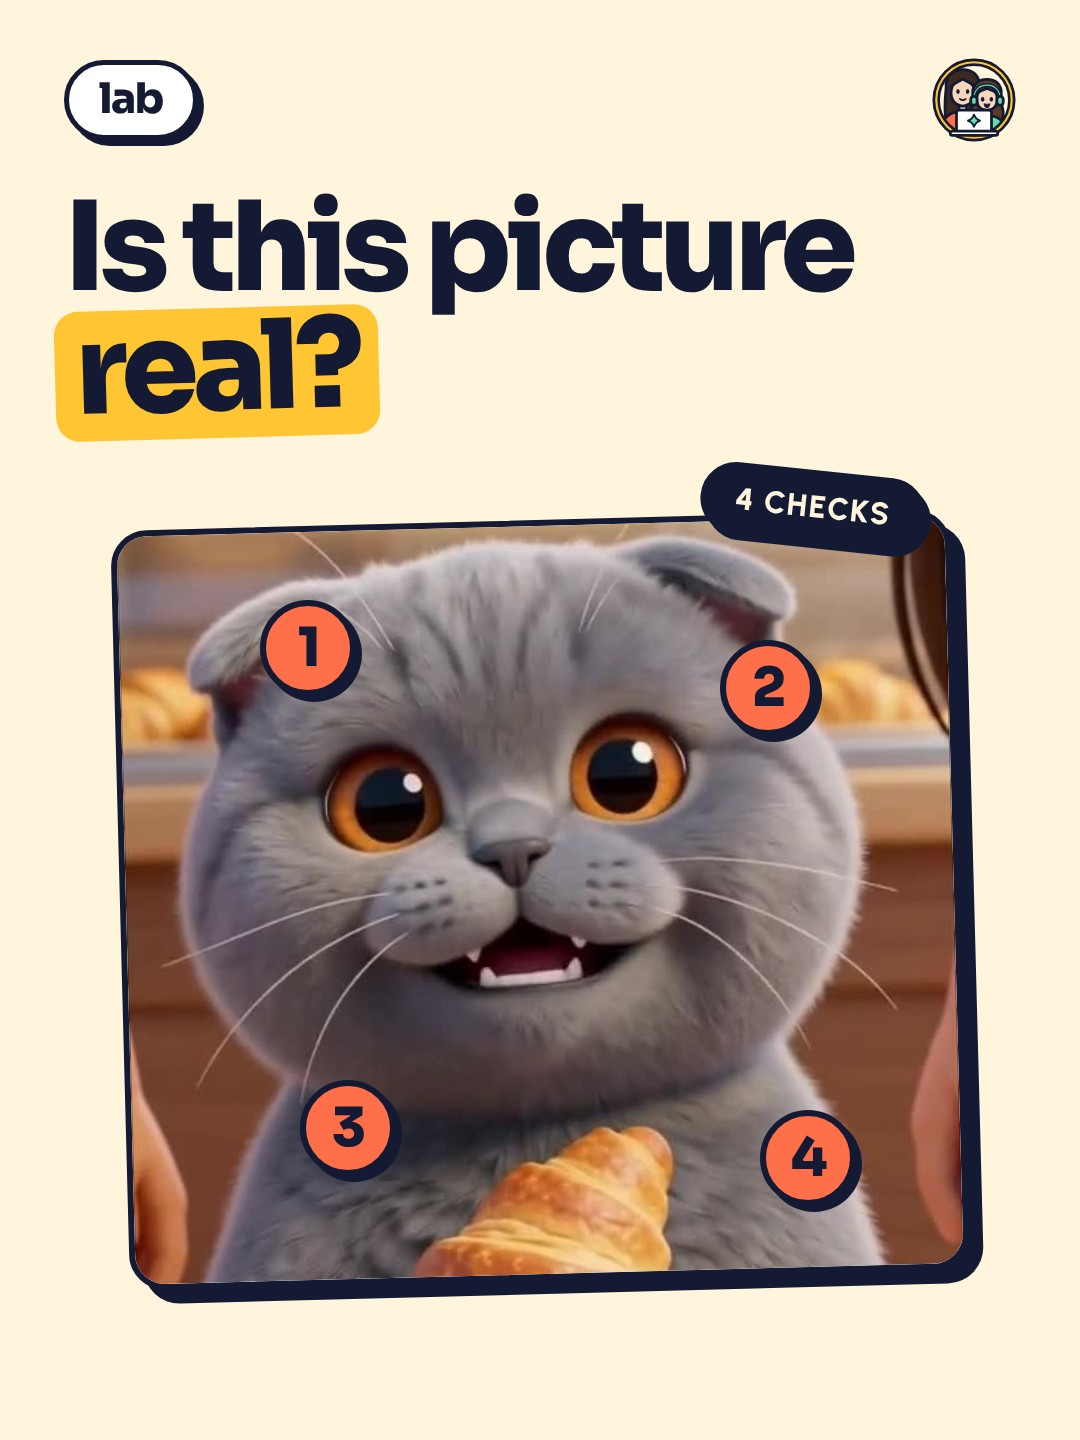
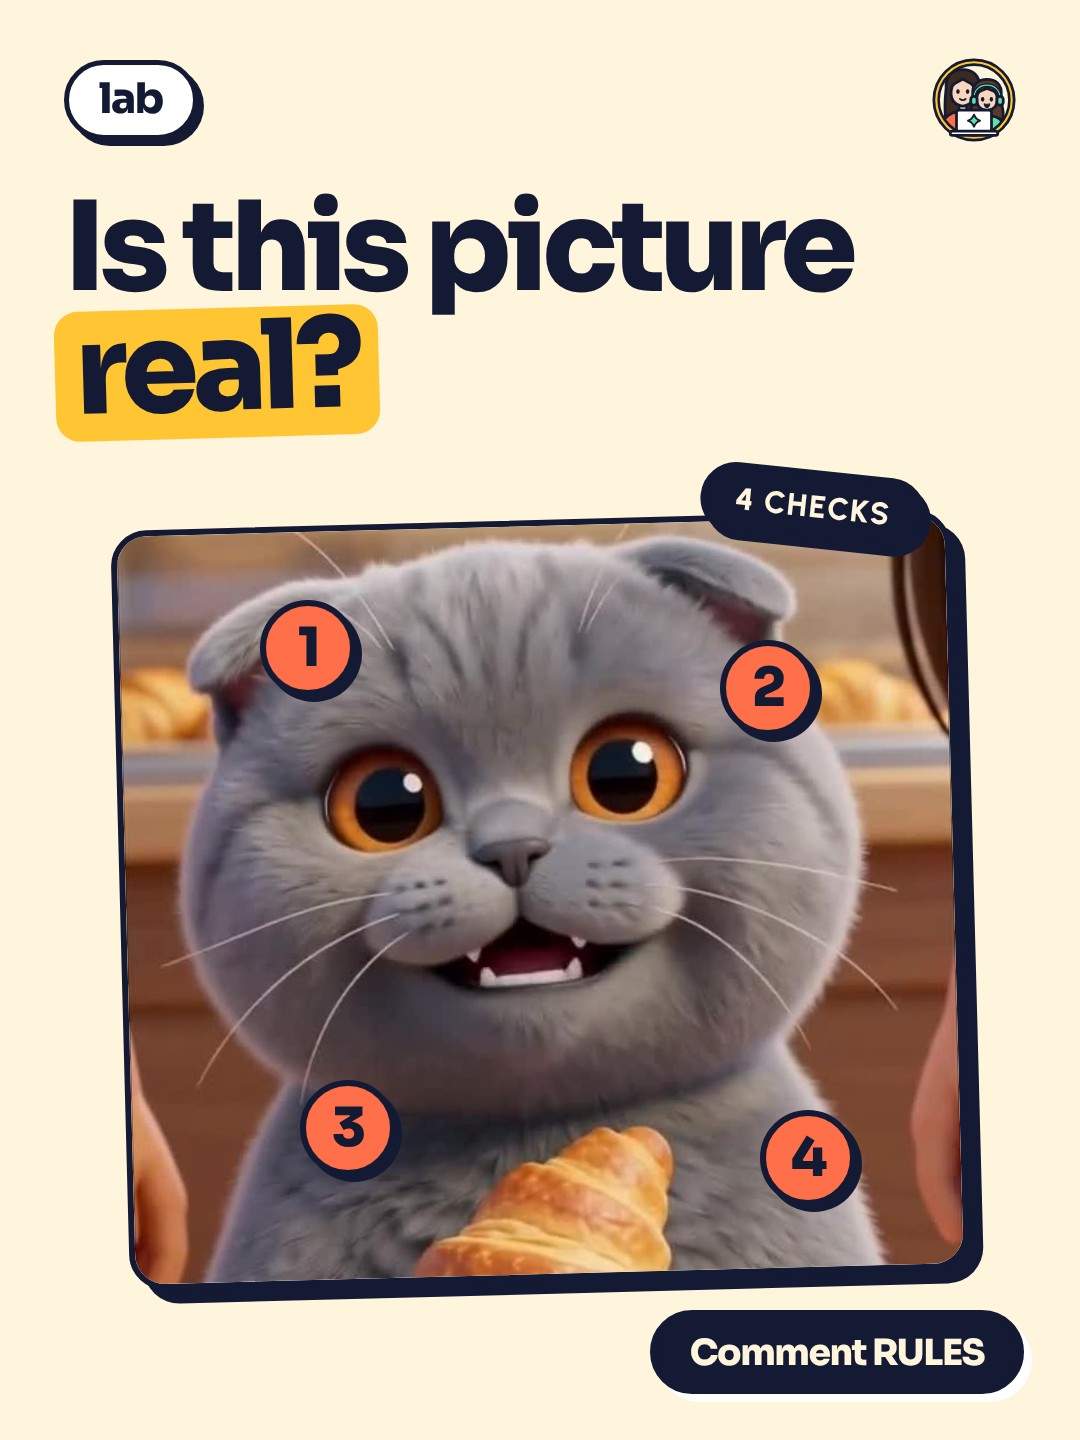
Instagram desk: trial reels 11 and 18 scheduled, post 15 on the cartoon, cartoon-frame series 32-36, comment word on every post
Claude-Session: https://claude.ai/code/session_01DtGyjSqHdVpz2CXmqnfjKT

Changed region(s): [[0.5806, 0.9062, 0.9778, 1.0]]

diff --git a/social/desks/instagram.md b/social/desks/instagram.md
@@ -73,3 +73,4 @@ social/concept/sound/build.sh 07   # звук (нужны записи и нав
 - 16.11.2026: этап 2 утверждён, рука в №11 перерисована реалистичнее. Продающие: №26, №30 и строка с ценой в №31. Пост 23 теперь «this Thanksgiving» (без обещания «до четверга»). Тексты всех 21 поста готовы (этап 3, начало).
 - 17.11.2026: владелец: сетка около 10 публикаций, всё, что можно, в триал. В паке 19-25.11 пробными идут все 16 роликов; вопрос по 5 каруселям (в сетку или пересобрать в ролики).
 - 17.11.2026: владелец прислал метод поднятия охвата пробных роликов (тред petkova.anjela.ai): ролики-выбросы ниши → механика хуков; вводные + 5-10 живых видео с телефона; пачка роликов. Записано в `SERIES.md`, раздел 6. Нужны от владельца: 10-15 роликов-выбросов (ссылки или скриншоты с просмотрами) и 5-10 живых клипов Ани и Камиллы.
+- 17.11.2026: два пробных ролика (Trial Reels) стоят в Metricool на сегодня: №11 «six fingers» 09:00 (id 431053531), №18 «sounds sure» 15:00 (id 431053559), голос Ани. Владелец: больше постов как №13 на кадрах мультфильма Камиллы (серия 32-36 предложена), №15 переделан на кадрах мультфильма, на каждом посте кнопка «Comment СЛОВО» по теме (`KW` в `review/week2.mjs`). Агент собирает ролики-выбросы с YouTube Shorts в `swipe.md` (youtube.com разрешён в окружении).
